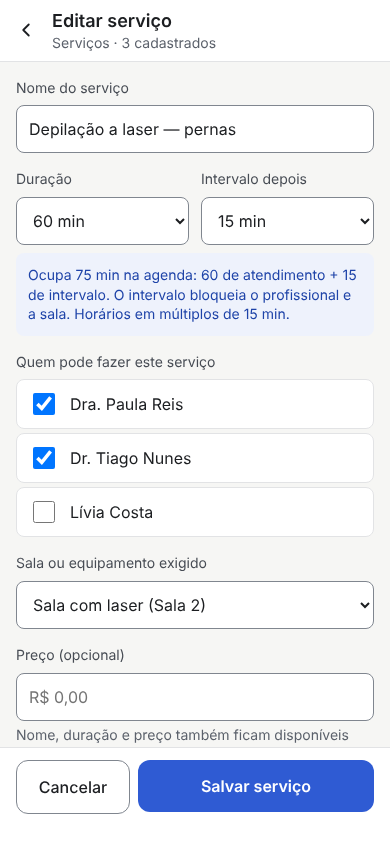
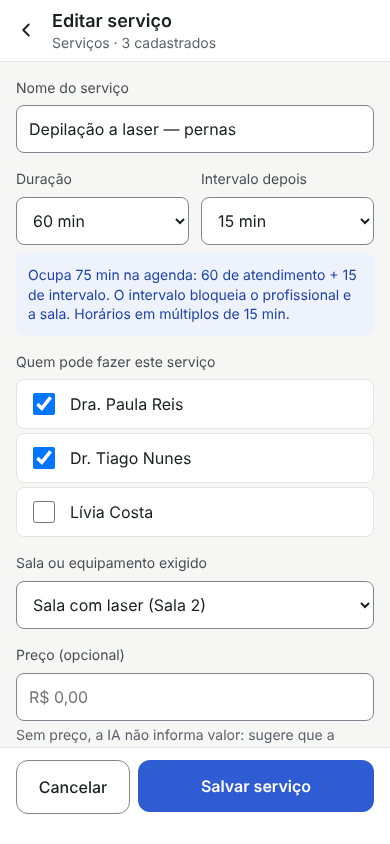
IA: preço, explicação de procedimentos e mensagens ofensivas (DEC-046) (#12)
- REQ-073 a REQ-075 e AC-41 a AC-43
- Serviço (M-16) ganha a explicação para clientes; nova tela M-30 com
  os casos especiais do bloco de IA
- ux-ui.md §6.3, ADR-0004, MVP e dossiê jurídico atualizados; critério
  de detecção em aberto

Claude-Session: https://claude.ai/code/session_018LoKpmkZfcb6hBei4QRSz9

Changed region(s): [[0.0308, 0.8626, 0.8923, 0.8934]]

diff --git a/docs/design/mobile/IaCasos.dc.html b/docs/design/mobile/IaCasos.dc.html
@@ -1,0 +1,70 @@
+<!doctype html>
+<html lang="pt-BR">
+<head>
+<meta charset="utf-8">
+<title>Sugestão da IA em casos especiais — celular</title>
+<script src="./support.js"></script>
+</head>
+<body>
+<x-dc>
+<helmet>
+<link rel="preconnect" href="https://fonts.googleapis.com">
+<link href="https://fonts.googleapis.com/css2?family=Inter:wght@400;500;600&amp;display=swap" rel="stylesheet">
+<style>
+body{margin:0}
+a{color:#2F5BD3}a:hover{color:#1E43A8}
+button{font:inherit}
+button:focus-visible,a:focus-visible{outline:2px solid #2F5BD3;outline-offset:2px}
+</style>
+</helmet>
+<div style="width: 390px; height: 844px; box-sizing: border-box; background: #F6F6F4; color: #1C1E21; font-family: Inter, system-ui, sans-serif; font-size: 16px; line-height: 1.4; display: flex; flex-direction: column; overflow: hidden">
+
+<header style="background: #FFFFFF; border-bottom: 1px solid #E2E3E5; padding: 12px 16px">
+<h1 style="margin: 0; font-size: 18px; font-weight: 600">Sugestão da IA: casos especiais</h1>
+<span style="font-size: 14px; color: #5B616B">Referência de estados do bloco de IA</span>
+</header>
+
+<div style="flex: 1; overflow-y: auto; padding: 16px; display: flex; flex-direction: column; gap: 20px">
+
+<section aria-labelledby="c1" style="display: flex; flex-direction: column; gap: 8px">
+<h2 id="c1" style="margin: 0; font-size: 14px; font-weight: 600; text-transform: uppercase; letter-spacing: .04em; color: #5B616B">Serviço sem preço</h2>
+<span style="align-self: flex-start; max-width: 82%; padding: 8px 12px; border-radius: 16px 16px 16px 4px; background: #FFFFFF; border: 1px solid #E2E3E5; font-size: 14px">Quanto custa a harmonização?</span>
+<div style="display: flex; flex-direction: column; gap: 8px; padding: 12px; border-radius: 12px; border: 1.5px dashed #6B3FD4; background: #F7F4FD">
+<span style="font-size: 14px; font-weight: 600; color: #4B2A9E">Sugestão da IA — revise antes de enviar</span>
+<span role="note" style="display: flex; gap: 8px; align-items: flex-start; padding: 8px 12px; border-radius: 8px; background: #FFF7EA; border: 1px solid #EBCB94; color: #6E4200; font-size: 14px"><svg aria-hidden="true" style="flex: none; margin-top: 2px" width="16" height="16" viewBox="0 0 24 24" fill="none" stroke="currentColor" stroke-width="2" stroke-linecap="round" stroke-linejoin="round"><circle cx="12" cy="12" r="9"></circle><path d="M12 8v5"></path><path d="M12 16h.01"></path></svg>Serviço sem preço cadastrado. A IA não informou valor.</span>
+<span style="font-size: 14px">Oi, Renata! Vou confirmar o valor da harmonização com a equipe e já te respondo, tá?</span>
+</div>
+</section>
+
+<section aria-labelledby="c2" style="display: flex; flex-direction: column; gap: 8px">
+<h2 id="c2" style="margin: 0; font-size: 14px; font-weight: 600; text-transform: uppercase; letter-spacing: .04em; color: #5B616B">Mensagem ofensiva ou fora do assunto</h2>
+<span style="align-self: flex-start; max-width: 82%; padding: 8px 12px; border-radius: 16px 16px 16px 4px; background: #FFFFFF; border: 1px solid #E2E3E5; font-size: 14px">[mensagem ofensiva]</span>
+<div style="display: flex; flex-direction: column; gap: 8px; padding: 12px; border-radius: 12px; border: 1.5px dashed #6B3FD4; background: #F7F4FD">
+<span style="font-size: 14px; font-weight: 600; color: #4B2A9E">Sugestão da IA — revise antes de enviar</span>
+<span role="note" style="display: flex; gap: 8px; align-items: flex-start; padding: 8px 12px; border-radius: 8px; background: #FDF1F0; border: 1px solid #F1B8B2; color: #B42318; font-size: 14px"><svg aria-hidden="true" style="flex: none; margin-top: 2px" width="16" height="16" viewBox="0 0 24 24" fill="none" stroke="currentColor" stroke-width="2" stroke-linecap="round" stroke-linejoin="round"><path d="M12 3l9 16H3z"></path><path d="M12 10v4"></path><path d="M12 17h.01"></path></svg>Mensagem ofensiva. Você não precisa responder.</span>
+<span style="font-size: 14px">Aqui atendemos assuntos da clínica com respeito. Se quiser marcar um horário, é só me dizer.</span>
+</div>
+</section>
+
+<section aria-labelledby="c3" style="display: flex; flex-direction: column; gap: 8px">
+<h2 id="c3" style="margin: 0; font-size: 14px; font-weight: 600; text-transform: uppercase; letter-spacing: .04em; color: #5B616B">Pergunta sobre o procedimento</h2>
+<span style="align-self: flex-start; max-width: 82%; padding: 8px 12px; border-radius: 16px 16px 16px 4px; background: #FFFFFF; border: 1px solid #E2E3E5; font-size: 14px">Como é a limpeza de pele? Posso fazer grávida?</span>
+<div style="display: flex; flex-direction: column; gap: 8px; padding: 12px; border-radius: 12px; border: 1.5px dashed #6B3FD4; background: #F7F4FD">
+<span style="font-size: 14px; font-weight: 600; color: #4B2A9E">Sugestão da IA — revise antes de enviar</span>
+<span role="note" style="display: flex; gap: 8px; align-items: flex-start; padding: 8px 12px; border-radius: 8px; background: #FFF7EA; border: 1px solid #EBCB94; color: #6E4200; font-size: 14px"><svg aria-hidden="true" style="flex: none; margin-top: 2px" width="16" height="16" viewBox="0 0 24 24" fill="none" stroke="currentColor" stroke-width="2" stroke-linecap="round" stroke-linejoin="round"><circle cx="12" cy="12" r="9"></circle><path d="M12 8v5"></path><path d="M12 16h.01"></path></svg>Assunto clínico: encaminhe a uma profissional.</span>
+<span style="font-size: 14px">Oi, Júlia! A limpeza de pele é uma limpeza profunda com extração e máscara calmante, e dura cerca de 60 minutos. Sobre a gravidez, quem orienta é a nossa profissional: posso pedir para ela te responder?</span>
+<span style="font-size: 14px; color: #474C54">Fonte: explicação cadastrada pela clínica em Limpeza de pele.</span>
+</div>
+</section>
+</div>
+</div>
+</x-dc>
+<script type="text/x-dc" data-dc-script data-props='{"$preview":{"width":390,"height":844}}'>
+class Component extends DCLogic {
+renderVals() {
+return {};
+}
+}
+</script>
+</body>
+</html>

diff --git a/docs/design/mobile/Servico.dc.html b/docs/design/mobile/Servico.dc.html
@@ -49,7 +49,11 @@ button:focus-visible,a:focus-visible,select:focus-visible,input:focus-visible{ou
 
 <label style="display: flex; flex-direction: column; gap: 8px; font-size: 14px; color: #474C54">Preço (opcional)
 <input type="text" inputmode="decimal" placeholder="R$ 0,00" style="height: 48px; box-sizing: border-box; padding: 0 12px; border: 1px solid #80868F; border-radius: 8px; font-size: 16px; color: #1C1E21"></label>
-<span style="margin-top: -12px; font-size: 14px; color: #5B616B">Nome, duração e preço também ficam disponíveis para a IA montar sugestões de resposta.</span>
+<span style="margin-top: -12px; font-size: 14px; color: #5B616B">Sem preço, a IA não informa valor: sugere que a equipe vai confirmar.</span>
+
+<label style="display: flex; flex-direction: column; gap: 8px; font-size: 14px; color: #474C54">Explicação para clientes (opcional)
+<textarea rows="5" style="padding: 12px; border: 1px solid #80868F; border-radius: 8px; font: inherit; font-size: 16px; line-height: 1.4; color: #1C1E21; resize: vertical">Limpeza profunda com extração e máscara calmante. Dura cerca de 60 minutos. Evite sol forte nas 48 horas seguintes.</textarea></label>
+<span style="margin-top: -12px; font-size: 14px; color: #5B616B">A IA usa só este texto para explicar o serviço. Não escreva promessas de resultado; dúvidas de saúde vão para a profissional.</span>
 
 <label style="display: flex; align-items: center; justify-content: space-between; min-height: 48px; padding: 0 12px; background: #FFFFFF; border: 1px solid #E2E3E5; border-radius: 8px">Serviço ativo<input type="checkbox" checked style="width: 28px; height: 28px"></label>
 <span style="margin-top: -8px; font-size: 14px; color: #5B616B">Desativar não apaga compromissos já marcados.</span>

diff --git a/docs/product/ux-ui.md b/docs/product/ux-ui.md
@@ -188,7 +188,7 @@ A IA não preenche nem confirma este painel no MVP (ADR-0004).
 
 **Início (M-15).** Faixa “Falta N passos para atender” com os itens pendentes e uma lista de áreas com o estado de cada uma (Pronto, Falta conectar). “Pronta para atender” exige: ao menos um serviço, um profissional, uma sala/equipamento, expediente e WhatsApp conectado (REQ-052, AC-14). Sem a configuração da agenda, M-04 mostra “A agenda desta clínica ainda não foi configurada”.
 
-**Serviço (M-16).** Nome, duração e intervalo depois (múltiplos de 15 min, DEC-008), quem pode fazer, sala/equipamento exigido, preço opcional e ativo/inativo. Um resumo mostra quanto tempo o serviço ocupa na agenda: duração + intervalo, bloqueando profissional e sala. Desativar um serviço não cancela compromissos já marcados. Nome, duração e preço também alimentam o contexto da IA (REQ-072).
+**Serviço (M-16).** Nome, duração e intervalo depois (múltiplos de 15 min, DEC-008), quem pode fazer, sala/equipamento exigido, preço opcional, **explicação para clientes** opcional (usada pela IA, DEC-046) e ativo/inativo. Um resumo mostra quanto tempo o serviço ocupa na agenda: duração + intervalo, bloqueando profissional e sala. Desativar um serviço não cancela compromissos já marcados. Nome, duração e preço também alimentam o contexto da IA (REQ-072).
 
 **Horários e bloqueios (M-17).** Por profissional e por sala/equipamento: expediente semanal (faixas por dia) e bloqueios pontuais com data, horário opcional e motivo; sem recorrência no MVP (DEC-008). Criar um bloqueio sobre compromissos existentes lista os compromissos afetados e não os cancela sozinho; o responsável decide caso a caso (fluxo de cancelar ou reagendar com motivo, TEL-06).
 
@@ -278,7 +278,11 @@ Ver seção 6.2.
 - Mensagem enviada a partir de sugestão registra a origem (“Sugestão da IA, editada por Ana”) no histórico interno, não para o contato.
 - **Resumo da IA** no painel do contato: gerado sob demanda, com horário de geração e aviso “Pode conter erros. Confira na conversa.”
 - Falha ou indisponibilidade: “A sugestão não está disponível agora. Você pode responder normalmente.” O compositor continua ativo (AC-06).
-- Pergunta clínica (contraindicação, diagnóstico): **Proposto** — a sugestão traz o aviso “Assunto clínico: encaminhe a um profissional” e não responde o mérito (ADR-0004). Critério de detecção depende do provedor.
+- **Preço (Confirmado, DEC-046, REQ-073):** só o preço cadastrado; sem preço, a sugestão não informa valor e mostra “Serviço sem preço cadastrado. A IA não informou valor.”
+- **Procedimento (Confirmado, DEC-046, REQ-075):** a sugestão explica o serviço só com a “Explicação para clientes” cadastrada e mostra “Fonte: explicação cadastrada pela clínica em …”; sem explicação, não descreve. Nunca promete resultado.
+- **Pergunta clínica** (contraindicação, gravidez, medicamento, diagnóstico): aviso “Assunto clínico: encaminhe a uma profissional” e nenhuma resposta de mérito (**Confirmado**, DEC-046; antes Proposto, ADR-0004).
+- **Mensagem ofensiva ou fora do assunto (Confirmado, DEC-046, REQ-074):** aviso à atendente (“Mensagem ofensiva. Você não precisa responder.” ou “Fora do assunto da clínica.”) e sugestão curta e cordial que recoloca o limite. Desenhado em M-30.
+- **Em aberto:** critério de detecção dos três casos acima; depende de testes com o provedor e de exemplos fictícios da clínica piloto.
 - A IA não agenda, cancela nem muda etapa (Fora do MVP).
 
 ## 7. Acessibilidade e legibilidade
@@ -309,10 +313,11 @@ Ver seção 6.2.
 | TEL-06 Compromisso | JRN-05 | REQ-032, REQ-033 | AC-10 |
 | TEL-07 Estados globais | JRN-07 | REQ-001, REQ-003, REQ-040, REQ-041, REQ-042 | AC-01, AC-02, AC-11, AC-12 |
 | TEL-08 Entrar e escolher clínica | JRN-07, JRN-08 | REQ-005 | AC-17 |
+| §6.3 IA: preço, procedimento e mensagens ofensivas | JRN-02 | REQ-073, REQ-074, REQ-075 | AC-41, AC-42, AC-43 |
 | TEL-10 Suporte do Tredane | JRN-08 | REQ-060 a REQ-066 | AC-27 a AC-35 |
 | TEL-09 Clínica (configuração) | JRN-08 | REQ-002, REQ-003, REQ-004, REQ-051, REQ-052, REQ-071 | AC-03, AC-14, AC-38, AC-39, AC-40 |
 
-Artboards do canvas mobile: M-01 e M-02 → TEL-01; M-03 → TEL-01 (detalhes); M-04 → TEL-05; M-05 → TEL-03 e TEL-02 (folha inferior); M-06 e M-13 → TEL-04; M-07 e M-08 → TEL-07; M-09 e M-10 → TEL-08; M-11 e M-12 → TEL-01 (janela de 24 h e modelos); M-14 → avisos e instalação (PWA); M-27 a M-29 → TEL-10; M-15 a M-26 → TEL-09 (M-20 a M-22: cadastro de profissionais, salas e equipamentos; M-19 e M-23 a M-26: WhatsApp). As telas M-01 a M-14 mostram a visão do Atendente; o Responsável vê as mesmas telas com a aba Clínica na barra inferior (M-15 a M-19).
+Artboards do canvas mobile: M-01 e M-02 → TEL-01; M-03 → TEL-01 (detalhes); M-04 → TEL-05; M-05 → TEL-03 e TEL-02 (folha inferior); M-06 e M-13 → TEL-04; M-07 e M-08 → TEL-07; M-09 e M-10 → TEL-08; M-11 e M-12 → TEL-01 (janela de 24 h e modelos); M-14 → avisos e instalação (PWA); M-30 → IA em casos especiais (§6.3); M-27 a M-29 → TEL-10; M-15 a M-26 → TEL-09 (M-20 a M-22: cadastro de profissionais, salas e equipamentos; M-19 e M-23 a M-26: WhatsApp). As telas M-01 a M-14 mostram a visão do Atendente; o Responsável vê as mesmas telas com a aba Clínica na barra inferior (M-15 a M-19).
 
 ## 10. Critérios de aceite de UX
 

diff --git a/docs/product/decisions.md b/docs/product/decisions.md
@@ -40,6 +40,7 @@
 | DEC-042 | Confirmado | Configuração da clínica só pelo responsável | Só o responsável (owner) altera serviços, profissionais, salas/equipamentos, disponibilidade e bloqueios e conecta o número de WhatsApp; o atendente opera atendimento e agenda, mas não altera essas configurações. Resolve o “?” da matriz de [atores](actors-permissions.md) para o atendente. Convite e remoção de attendants seguem DEC-020. | 23/10/2026 (resposta do responsável pelo produto nesta sessão de design, item “Administração”). Opções descartadas: atendente ajustando disponibilidade do dia; ambos administrando tudo. |
 | DEC-043 | Confirmado (24/10/2026, responsável pelo produto) | Clerk no piloto: plano, custo e residência | O piloto usa o plano de menor custo do Clerk e guarda lá só identidade mínima (nome, e-mail, sessão); dados de atendimento ficam no SQLite do DO e no D1 (DEC-038). **Pré-condição de go-live, não da F0:** antes de qualquer clínica real, conferir na documentação da Clerk plano e limites, custo por usuário ativo, DPA e região de hospedagem, e levar à revisão jurídica (LGPD). Valores não foram verificados; não registrar números nesta spec até a conferência. **Em aberto:** responsável pela conferência e custo aceitável por clínica. |
 | DEC-045 | Confirmado (24/10/2026, responsável pelo produto) | Nome do pipeline na interface | Na interface do painel e no site, “Pipeline” passa a **Acompanhamento** e “oportunidade” a **contato em andamento** (ou equivalente em linguagem da recepção). Motivo: muitas leitoras não sabem o que é pipeline. Documentos, requisitos e código mantêm “pipeline” e “oportunidade” como termos de domínio; arquivos e IDs (TEL-03, M-05, `Pipeline.dc.html`) não mudam. **Confirmado depois, na mesma data:** se “Acompanhamento” não couber na barra inferior em 360 px, a barra usa “Acompanhar” e o título da tela continua “Acompanhamento”. **Em aberto:** validar o nome com a clínica piloto e conferir em aparelho real. |
+| DEC-046 | Confirmado (24/10/2026, responsável pelo produto) | Respostas da IA sobre preço, procedimentos e mensagens ofensivas | (a) **Preço:** a sugestão só informa valor cadastrado no serviço; sem preço, não inventa e sugere que a equipe vai confirmar, com aviso à atendente. (b) **Procedimentos:** cada serviço ganha o campo opcional “Explicação para clientes”, escrito pela responsável; a IA explica o serviço **só** com esse texto, sem promessa de resultado, e pergunta de saúde segue para a profissional (§6.3 de ux-ui.md). (c) **Ofensiva ou fora do assunto:** a sugestão traz aviso à atendente e propõe resposta curta e cordial que recoloca o limite ou volta aos serviços. Em todos os casos a IA continua só sugerindo e uma pessoa envia (DEC-040, ADR-0004). Opções descartadas: preço “a partir de” no cadastro, IA nunca falar de preço, explicação pelo conhecimento geral da IA, não explicar no MVP, só avisar sem sugestão, bloquear contato. Amplia o contexto de DEC-011 com a explicação do serviço (texto da clínica, sem dado pessoal). **Em aberto:** critério de detecção de mensagem ofensiva, fora do assunto e assunto clínico (depende de testes com o provedor); o que conta como “fora do assunto” para cada clínica. |
 | DEC-005 | Confirmado por DEC-038 | Coordenação por tenant | Um Durable Object por clínica coordena operações, conexões e eventos, com SQLite nativo como fonte de verdade operacional. D1 central mantém administração e memberships. | DEC-038, 23/10/2026; [ADR-0012](../adr/0012-clinic-durable-object-sqlite.md). |
 | DEC-006 | Proposto | IA no primeiro recorte | Sugestões de resposta e resumo revisados por pessoa; envio autônomo posterior. | Recorte registrado no [MVP](../MVP.md) e no [épico #1](https://github.com/intentzero/tredane/issues/1). Validar utilidade, dados permitidos e provedor antes de usar dados reais. |
 | DEC-007 | Confirmado em parte | Identidade e memberships | Clerk sem Organizations; flag privada `superadmin` booleana; um usuário pode pertencer a vários tenants via memberships no D1. Delegação de atendentes confirmada em DEC-020; implementação e testes de revogação imediata por tenant (DEC-026), verificação WebSocket ainda pendente; MFA foi excluído do MVP em DEC-028. | Decisão do responsável em 23/10/2026; [ADR-0006](../adr/0006-clerk-platform-admin.md). |

diff --git a/docs/product/requirements.md b/docs/product/requirements.md
@@ -168,6 +168,18 @@
 
 **Prioridade/estado:** MVP / Confirmado (DEC-011); revisão jurídica pendente. **Origem:** ACT-03, ACT-05. **Comportamento:** dados ficam enquanto a clínica for cliente; o responsável pode excluir um contato; ao encerrar a clínica, todos os dados dela são excluídos em até 30 dias. **Aceite:** após excluir um contato, suas mensagens e anexos não são mais encontrados por busca, API ou R2, e seus agendamentos permanecem sem dados pessoais; após o prazo de encerramento, os dados da clínica (SQLite do Durable Object e prefixo R2) não existem mais. **Dados/eventos:** exclusão registrada na auditoria sem o conteúdo excluído.
 
+### REQ-073 — Preço na sugestão da IA
+
+**Prioridade/estado:** MVP / Confirmado (DEC-046). **Origem:** ACT-02; JRN-02. **Comportamento:** quando a conversa pergunta preço, a sugestão usa apenas o preço cadastrado do serviço correspondente. Sem preço cadastrado, a sugestão não informa valor, propõe que a equipe confirme e mostra à atendente “Serviço sem preço cadastrado”. **Aceite:** AC-41. **Dados/eventos:** preço vem do catálogo da clínica (DEC-011); nenhum valor fora do catálogo.
+
+### REQ-074 — Mensagem ofensiva ou fora do assunto
+
+**Prioridade/estado:** MVP / Confirmado quanto ao comportamento (DEC-046); detecção **Em aberto**. **Origem:** ACT-02; JRN-02. **Comportamento:** quando a atendente pede sugestão numa conversa cuja última mensagem é ofensiva ou fora do assunto da clínica, o bloco de IA mostra aviso (“Mensagem ofensiva. Você não precisa responder.” ou “Fora do assunto da clínica.”) e sugere resposta curta e cordial que recoloca o limite ou volta aos serviços. A sugestão nunca repete o conteúdo ofensivo, não ironiza nem ameaça. **Aceite:** AC-42. **Dados/eventos:** nenhuma ação automática sobre o contato (bloqueio fica fora do MVP).
+
+### REQ-075 — Explicação do procedimento com texto da clínica
+
+**Prioridade/estado:** MVP / Confirmado (DEC-046). **Origem:** ACT-02, ACT-03; JRN-02, JRN-08. **Comportamento:** o serviço tem o campo opcional “Explicação para clientes”, editado só pela responsável (DEC-042). Ao explicar um procedimento, a sugestão usa só esse texto e indica a fonte para a atendente. Sem explicação cadastrada, a sugestão não descreve o procedimento e propõe que a equipe explique. Pergunta de saúde (contraindicação, gravidez, medicamento, diagnóstico) recebe o aviso “Assunto clínico: encaminhe a uma profissional” e a sugestão não responde o mérito. A sugestão nunca promete resultado. **Aceite:** AC-43. **Dados/eventos:** a explicação entra no contexto da IA (texto da clínica, sem dado pessoal).
+
 ## Racional de prioridade — proposta para aprovação
 
 Os requisitos abaixo estão categorizados como **MVP candidato** (ou **MVP interno** para gestão da plataforma) porque contribuem para a primeira jornada demonstrável, para a segurança multi-tenant ou para operar a plataforma sem depender de intervenção no banco. Estas justificativas **não significam aprovação final**, nem liberam uso de dados reais. Quando parte do comportamento estiver em aberto, a aprovação da prioridade não fecha a regra de produto.

diff --git a/docs/MVP.md b/docs/MVP.md
@@ -14,6 +14,7 @@ Permitir que uma clínica de estética receba e acompanhe contatos pelo WhatsApp
 - Agenda própria do Tredane no primeiro MVP. Regras confirmadas (DEC-008): duração fixa por serviço mais intervalo que ocupa sala/equipamento e profissional; expediente semanal e bloqueios pontuais; fuso por clínica; grade de 15 min; cancelamento e reagendamento sem prazo mínimo, com motivo obrigatório; “Horário proposto” não reserva horário.
 - WhatsApp: o Tredane atua como Tech Provider na Meta e o responsável (owner) conecta a conta da clínica pelo Embedded Signup, com apoio do Tredane no piloto (DEC-009).
 - IA: Claude via Cloudflare AI Gateway, com contexto limitado às mensagens recentes, primeiro nome, catálogo de serviços e etapa; dados guardados enquanto a clínica for cliente, exclusão de contato pelo responsável e exclusão total até 30 dias após o encerramento (DEC-011).
+- Respostas da IA (DEC-046): preço só do cadastro, explicação de procedimento só com texto aprovado pela clínica, pergunta de saúde encaminhada à profissional e aviso com resposta cordial para mensagem ofensiva ou fora do assunto; sempre como sugestão revisada.
 - Só o responsável configura serviços, profissionais, salas/equipamentos, disponibilidade e o número de WhatsApp (DEC-042).
 - Interface mobile first (DEC-039); decisões de UX: “Agendado” sem compromisso com aviso, IA só sob demanda, push via PWA, envio por modelo fora da janela de 24 h do WhatsApp e agenda de dia e semana (DEC-040).
 - Design system do painel aprovado (DEC-041): paleta, tipografia, escalas, componentes e ícones Lucide em [docs/design](design/README.md); biblioteca de componentes a decidir por prova de conceito na F0 ([ADR-0013](adr/0013-design-system-components.md)); modo escuro fora do MVP.
@@ -64,7 +65,7 @@ O [épico #1](https://github.com/intentzero/tredane/issues/1) acompanha a defini
 - [Cenários de aceite](product/acceptance.md)
 - [Fronteira de dados entre clínicas](product/tenant-boundaries.md)
 - [Especificação de UI/UX do painel](product/ux-ui.md) (telas, estados visíveis e critérios de UX)
-- [Mocks e guia de implementação da interface](design/README.md): 29 telas mobile, componentes, tokens e previews
+- [Mocks e guia de implementação da interface](design/README.md): 30 telas mobile, componentes, tokens e previews
 - [Registro de hipóteses a validar](product/validation-register.md) e [auditoria do Issue #1 (23/10/2026)](product/definition-audit-2026-10-23.md) — acompanhamento, não decisões novas.
 
 ## Documentação de arquitetura e execução

diff --git a/docs/design/screens.md b/docs/design/screens.md
@@ -33,7 +33,7 @@ Cada linha liga um mock a sua especificação. **A especificação manda:** em c
 | ID | Arquivo | Tela da spec | Jornadas · Requisitos · Cenários | Mostra | Navega para |
 | --- | --- | --- | --- | --- | --- |
 | M-15 | `Clinica` | TEL-09 início | JRN-08 · REQ-052 · AC-14 | Faixa “Falta 1 passo para atender”, lista de áreas com estado (Pronto, Falta conectar), barra inferior com 4 abas | M-16, M-20, M-17, M-18, M-19 |
-| M-16 | `Servico` | TEL-09 serviço | JRN-08 · REQ-052 · AC-38 | Nome, duração, intervalo depois, resumo “Ocupa 75 min”, quem pode fazer, recurso exigido, preço opcional, ativo | M-15 |
+| M-16 | `Servico` | TEL-09 serviço | JRN-08 · REQ-052, REQ-075 · AC-38, AC-43 | Nome, duração, intervalo depois, resumo “Ocupa 75 min”, quem pode fazer, recurso exigido, preço opcional, explicação para clientes (usada pela IA, REQ-075), ativo | M-15 |
 | M-17 | `Horarios` | TEL-09 horários | JRN-08 · REQ-030 · AC-38 | Abas por profissional e recurso, expediente semanal, bloqueios pontuais, aviso sobre compromissos existentes, **Novo bloqueio** | M-15 |
 | M-18 | `Equipe` | TEL-09 equipe | JRN-08 · REQ-002, REQ-003, REQ-004 · AC-02, AC-03 | Membros e papéis (responsáveis só leitura), convites pendentes (reenviar com espera, cancelar), faixa de pedido de suporte, “Suporte do Tredane”, **Convidar atendente** | M-15, M-27, M-28 |
 | M-19 | `ConectarWhatsapp` | TEL-09 WhatsApp | JRN-08 · REQ-051 | **Não conectado**, passos do Embedded Signup, **Conectar WhatsApp**, **Pedir ajuda** | M-15 |
@@ -47,6 +47,7 @@ Cada linha liga um mock a sua especificação. **A especificação manda:** em c
 | M-27 | `SuportePedido` | TEL-10 | REQ-060 · AC-27, AC-28, AC-29 | Pedido pendente: quem pede, em nome de quem, motivo, o que poderá, expiração (até 24 h), **Aprovar suporte** / **Rejeitar** | M-18, M-28 |
 | M-28 | `SuporteAtivo` | TEL-10 | REQ-061, REQ-062, REQ-063, REQ-064 · AC-30, AC-31, AC-32, AC-33, AC-34 | Sessão ativa de 30 min: restante, ator, usuário representado, aprovador, histórico, **Encerrar suporte agora** | M-18 |
 | M-29 | `SuporteAviso` | TEL-10 | REQ-065, REQ-066 · AC-34, AC-35 | Aviso ao usuário representado (faixa em Conversas) com **Solicitar encerramento** | — |
+| M-30 | `IaCasos` | §6.3 IA | JRN-02 · REQ-073, REQ-074, REQ-075 · AC-41, AC-42, AC-43 | Referência de três estados do bloco de IA: serviço sem preço, mensagem ofensiva, procedimento com explicação da clínica e assunto clínico | M-02 |
 
 ## Estados que a UI real precisa ter e os mocks mostram em uma tela só
 

diff --git a/docs/product/acceptance.md b/docs/product/acceptance.md
@@ -182,3 +182,16 @@
 ## Aplicação da topologia DEC-038 aos cenários
 
 Executar AC-01 (isolamento), AC-09/10 (agenda) e AC-11/12 (reconexão/hibernação) com DOs e bancos SQLite distintos por clínica, mantendo memberships e suporte no D1 central. As garantias existentes não mudam. Acrescentar ensaios de migração por instância, restauração sem efeitos duplicados/permissões ressuscitadas e revogação D1/DO durante corrida/hibernação, conforme [ADR-0012](../adr/0012-clinic-durable-object-sqlite.md). Cenários documentados não equivalem a testes executados.
+
+### AC-41 — Preço só do cadastro
+
+**Dado** o serviço “Limpeza de pele” com preço cadastrado e “Harmonização” sem preço; **quando** a atendente pede sugestão para “Quanto custa a limpeza?” e depois para “Quanto custa a harmonização?”; **então** a primeira sugestão traz exatamente o preço cadastrado e a segunda não contém nenhum valor, propõe confirmar com a equipe e mostra “Serviço sem preço cadastrado”. **Requisito:** REQ-073.
+
+### AC-42 — Mensagem ofensiva
+
+**Dado** uma conversa fictícia cuja última mensagem é ofensiva; **quando** a atendente pede sugestão; **então** o bloco mostra o aviso de mensagem ofensiva, a sugestão é cordial, não repete o insulto e nada é enviado sem a atendente tocar em **Enviar**. **Requisito:** REQ-074.
+
+### AC-43 — Explicação e assunto clínico
+
+**Dado** “Limpeza de pele” com explicação cadastrada e “Peeling” sem explicação; **quando** a cliente pergunta como é cada um e se pode fazer grávida; **então** a sugestão sobre a limpeza usa só o texto cadastrado e mostra a fonte, a sobre o peeling não descreve o procedimento, e a pergunta sobre gravidez recebe o aviso de assunto clínico sem resposta de mérito. **Requisito:** REQ-075.
+

diff --git a/docs/product/legal-review-brief.md b/docs/product/legal-review-brief.md
@@ -25,7 +25,7 @@
 | Terceiro | O que recebe | Situação |
 | --- | --- | --- |
 | Meta (WhatsApp Business) | Mensagens enviadas e recebidas; número da clínica | Tredane como Tech Provider (DEC-009); termos da Meta a revisar |
-| Anthropic, via Cloudflare AI Gateway | Até 20 mensagens recentes, primeiro nome, catálogo de serviços e etapa; nunca telefone, anexos, outras conversas nem dados de outra clínica | Gateway sem registro de conteúdo e não retenção pelo provedor **precisam de confirmação contratual** (DEC-011) |
+| Anthropic, via Cloudflare AI Gateway | Até 20 mensagens recentes, primeiro nome, catálogo de serviços (com a explicação para clientes, DEC-046) e etapa; nunca telefone, anexos, outras conversas nem dados de outra clínica | Gateway sem registro de conteúdo e não retenção pelo provedor **precisam de confirmação contratual** (DEC-011) |
 | Clerk | Nome, e-mail, sessão | Plano, DPA e região a conferir (DEC-043) |
 | Cloudflare | Hospedagem de tudo acima | DPA e regiões dos Durable Objects, D1 e R2 a conferir |
 

diff --git a/docs/design/README.md b/docs/design/README.md
@@ -17,7 +17,7 @@ Os mocks mostram **um** estado por tela e dados fictícios. Estados de carregame
 
 | Caminho | Conteúdo |
 | --- | --- |
-| [screens.md](screens.md) | Índice das 29 telas: ID (M-01 a M-29), arquivo, tela da spec, jornadas, requisitos, cenários de aceite, o que cada mock mostra e para onde navega; estados que faltam em cada tela |
+| [screens.md](screens.md) | Índice das 30 telas: ID (M-01 a M-30), arquivo, tela da spec, jornadas, requisitos, cenários de aceite, o que cada mock mostra e para onde navega; estados que faltam em cada tela |
 | [components.md](components.md) | Componentes recorrentes (cabeçalho, barra inferior, chips, balão, estado de envio, bloco de IA, folha inferior, formulário etc.) e regras gerais de implementação |
 | [tokens.json](tokens.json) · `tokens.css` | Tokens v0.2.0 (fonte única, em JSON) e variáveis CSS geradas a partir dele |
 | [catalog/index.html](catalog/index.html) | Catálogo: tokens e componentes com todos os estados (abra no navegador) |

diff --git a/docs/adr/0004-ai-human-in-loop.md b/docs/adr/0004-ai-human-in-loop.md
@@ -28,3 +28,5 @@ Adaptador de provedor com contratos tipados, acesso apenas a dados autorizados p
 ## Critérios de validação
 
 Cenários de preços ausentes, horário indisponível, risco clínico, mudança de contexto, tentativa de prompt injection e contexto de clínica errada. Medir qualidade da sugestão, percentagem editada/aceita, latência e custo. Autonomia futura exige novo ADR e critérios específicos.
+
+**Atualização (24/10/2026, DEC-046):** preço só do cadastro, explicação de procedimento só com o texto “Explicação para clientes” de cada serviço, pergunta clínica encaminhada à profissional e resposta cordial com aviso para mensagem ofensiva ou fora do assunto. O contexto enviado passa a incluir essa explicação (texto da clínica, sem dado pessoal). Ver REQ-073 a REQ-075.
